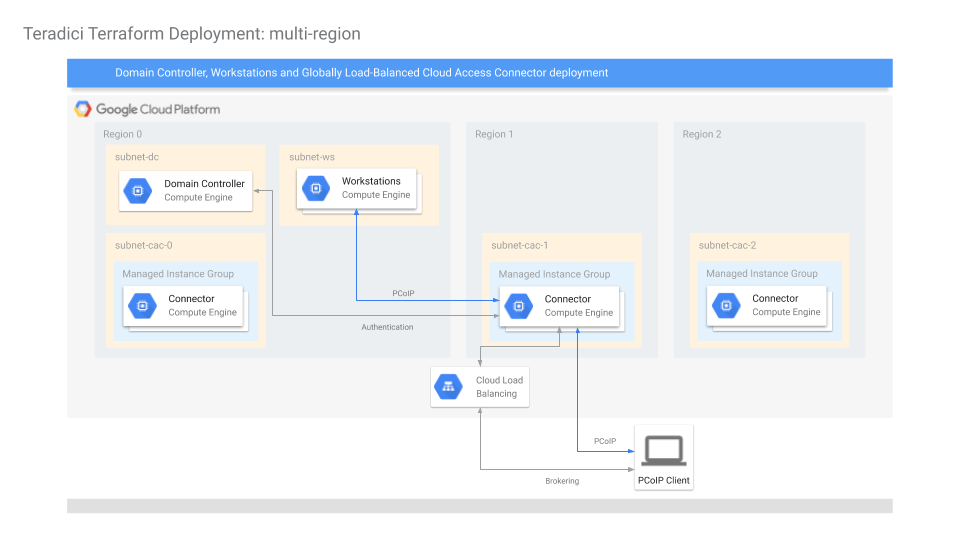
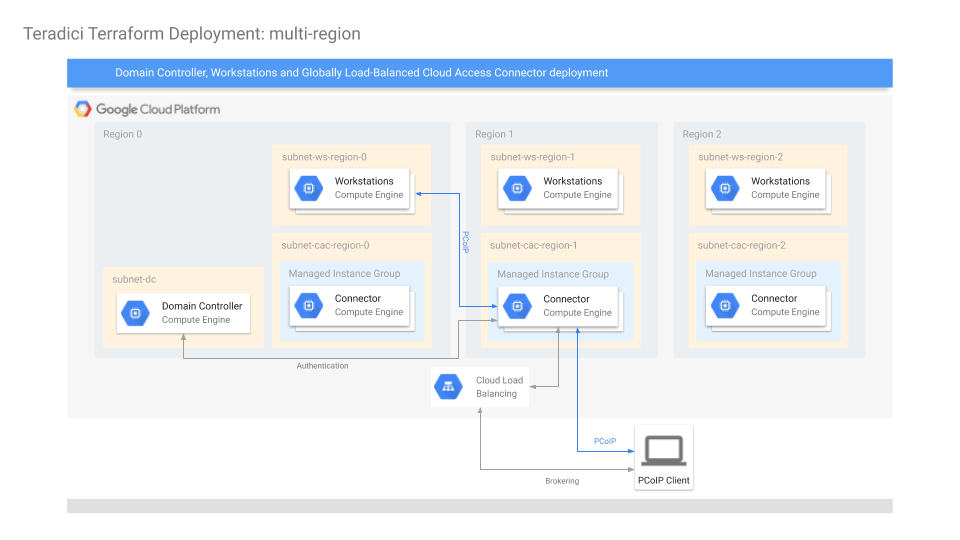
GCP: Updated diagram and readme for multi-region

diff --git a/docs/README-gcp.md b/docs/README-gcp.md
@@ -162,7 +162,7 @@ The following diagram shows a deployment when only a single region is specified 
 
 ![multi-connector diagram](single-region.png)
 
-Specifying multiple regions creates a deployment with Cloud Access Connectors in multiple regions, but workstations in only one region. A user initiating a PCoIP session with the public IP of the GCP HTTPS Load Balancer will connect to one of the closest Cloud Access Connectors and use GCP's global network to connect to the workstation.
+The next diagram shows a deployment with Cloud Access Connectors and workstations specified for 3 regions. A user initiating a PCoIP session with the public IP of the GCP HTTPS Load Balancer will connect to one of the closest Cloud Access Connectors and use GCP's global network to connect to the workstation selected.
 
 ![multi-region diagram](multi-region.png)
 
